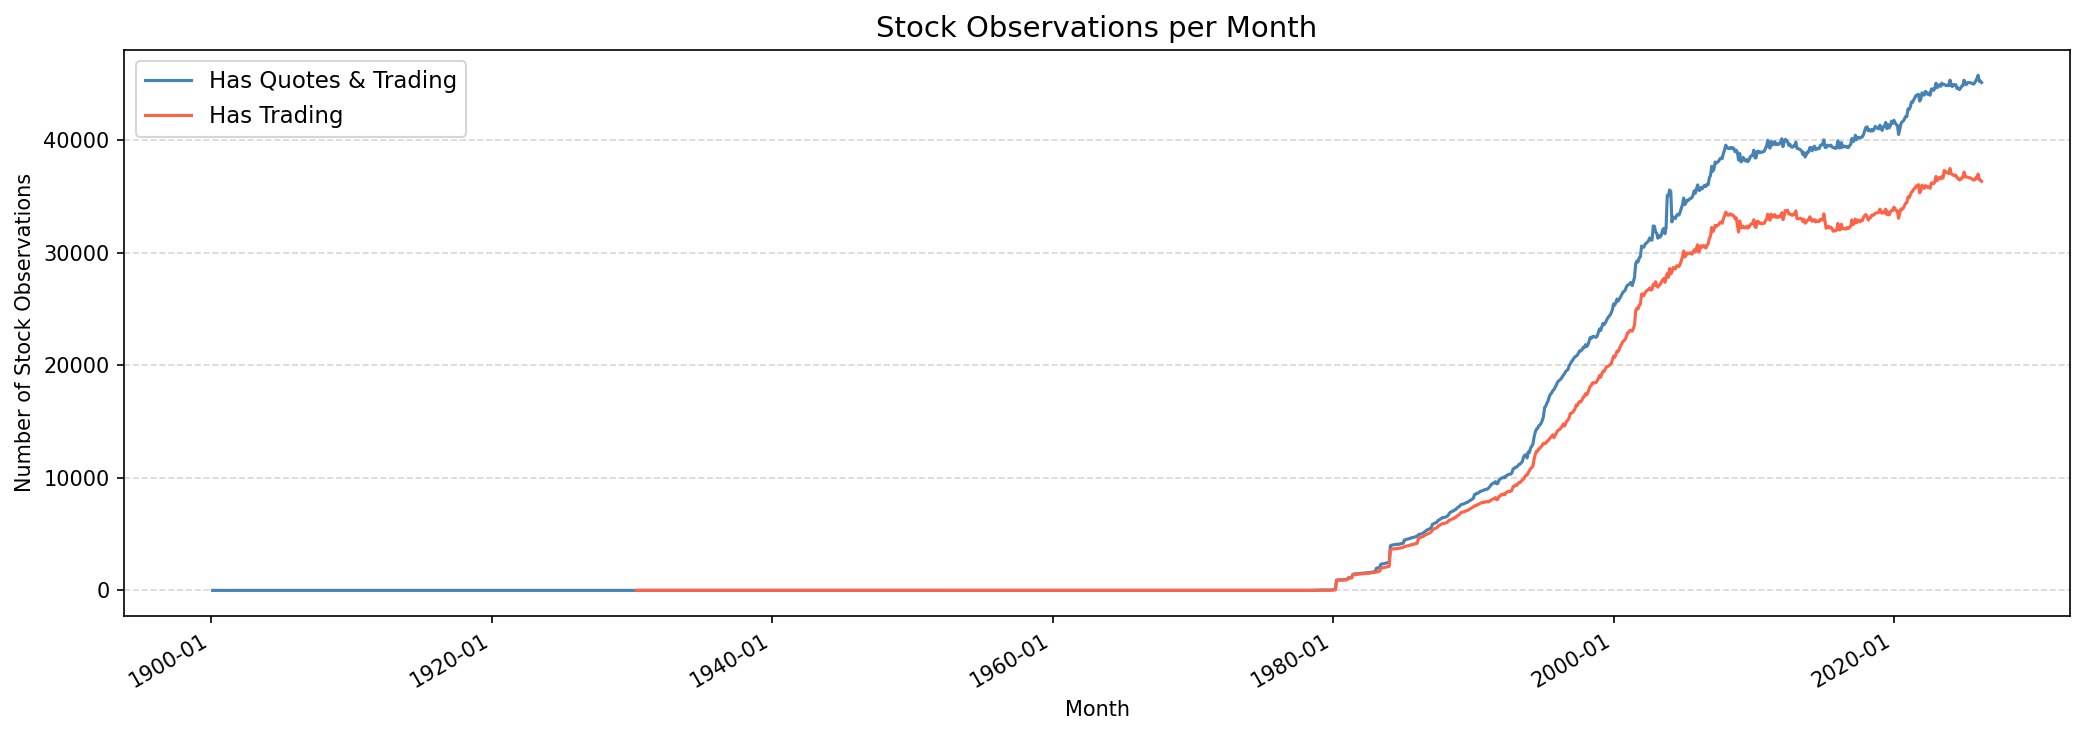
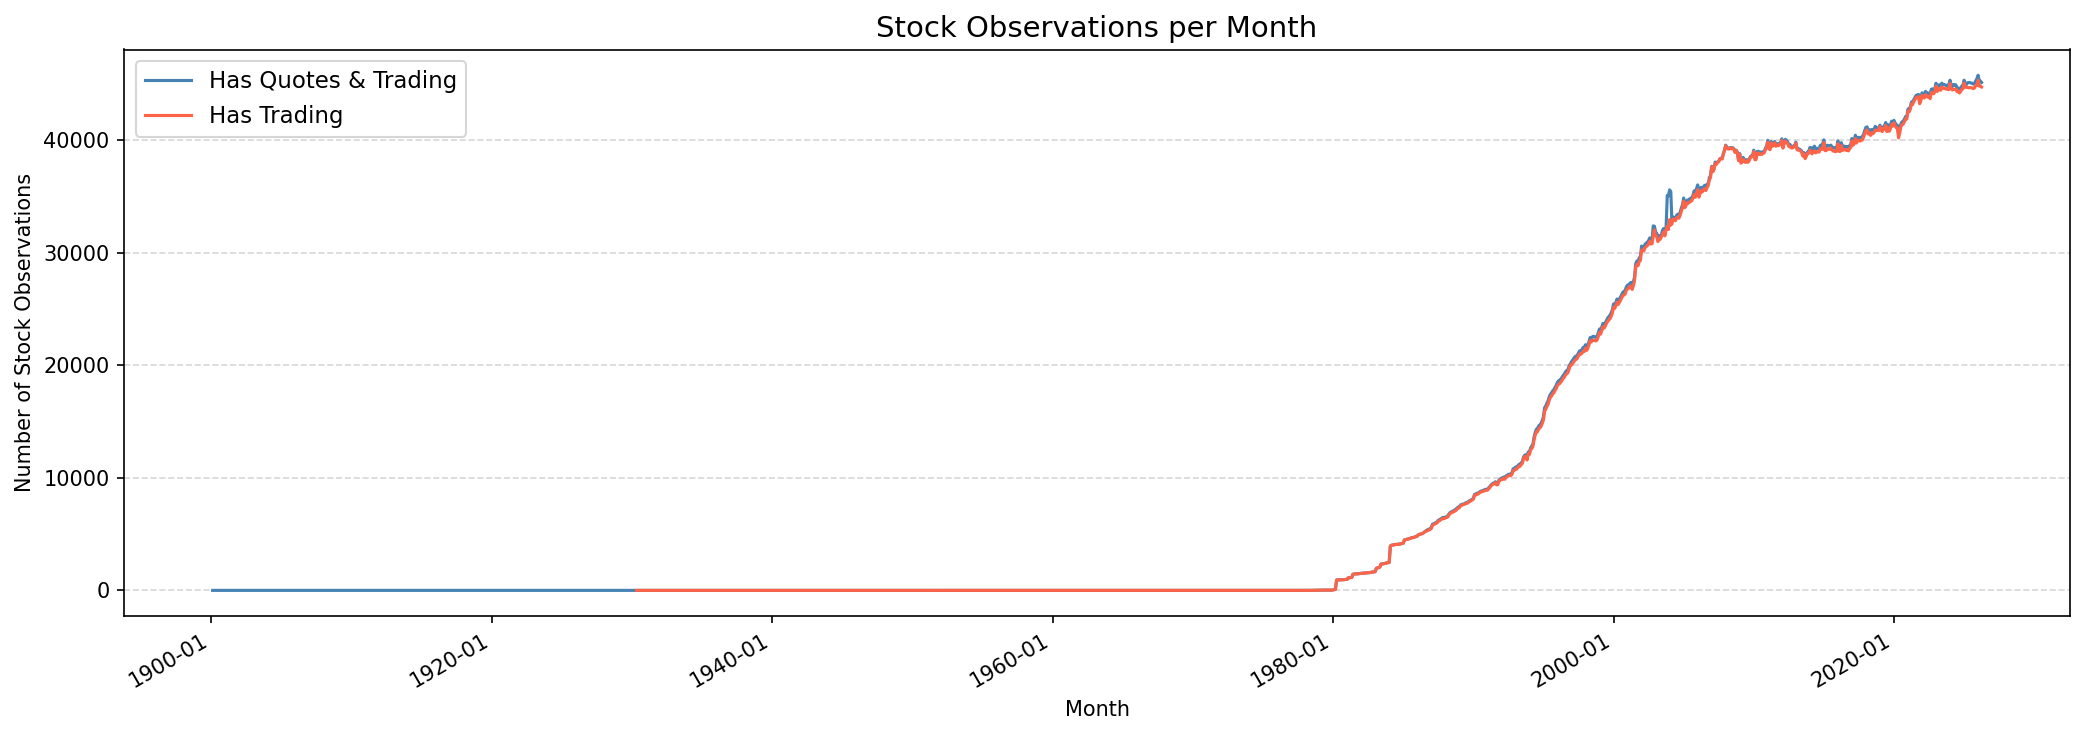
Add only _site contents

diff --git a/README.md b/README.md
@@ -82,7 +82,7 @@ The following fields indicate the number of instruments of each type associated 
 
 ## Coverage
 
-The database covers **113,200** **listed and delisted** companies in LSEG, where **97,341** (**80,410**) firms have valid stock observations (stock trading data). PS: some equities only have bid-ask quotes but trading data. The following query was used to extract the core company universe from the database:
+The database covers **113,200** **listed and delisted** companies in LSEG, where **97,341** (**95,916**) firms have valid stock observations (stock trading data). PS: some equities only have bid-ask quotes but trading data. The following query was used to extract the core company universe from the database:
 
 ```python
 import sqlite3
@@ -120,7 +120,7 @@ The Historical Pricing Interday Data requested via Direct RDP APIs in this [offi
 ```python
 url = f'https://api.refinitiv.com/data/historical-pricing/v1/views/interday-summaries/{PrimaryRIC}'
 
-payload = {'interval': 'P1W', 
+payload = {'interval': 'P1M', 
             'count':15,
             'fields':'BID,ASK,OPEN_PRC,HIGH_1,LOW_1,TRDPRC_1,NUM_MOVES,TRNOVR_UNS',
             'start':'2025-01-01',
